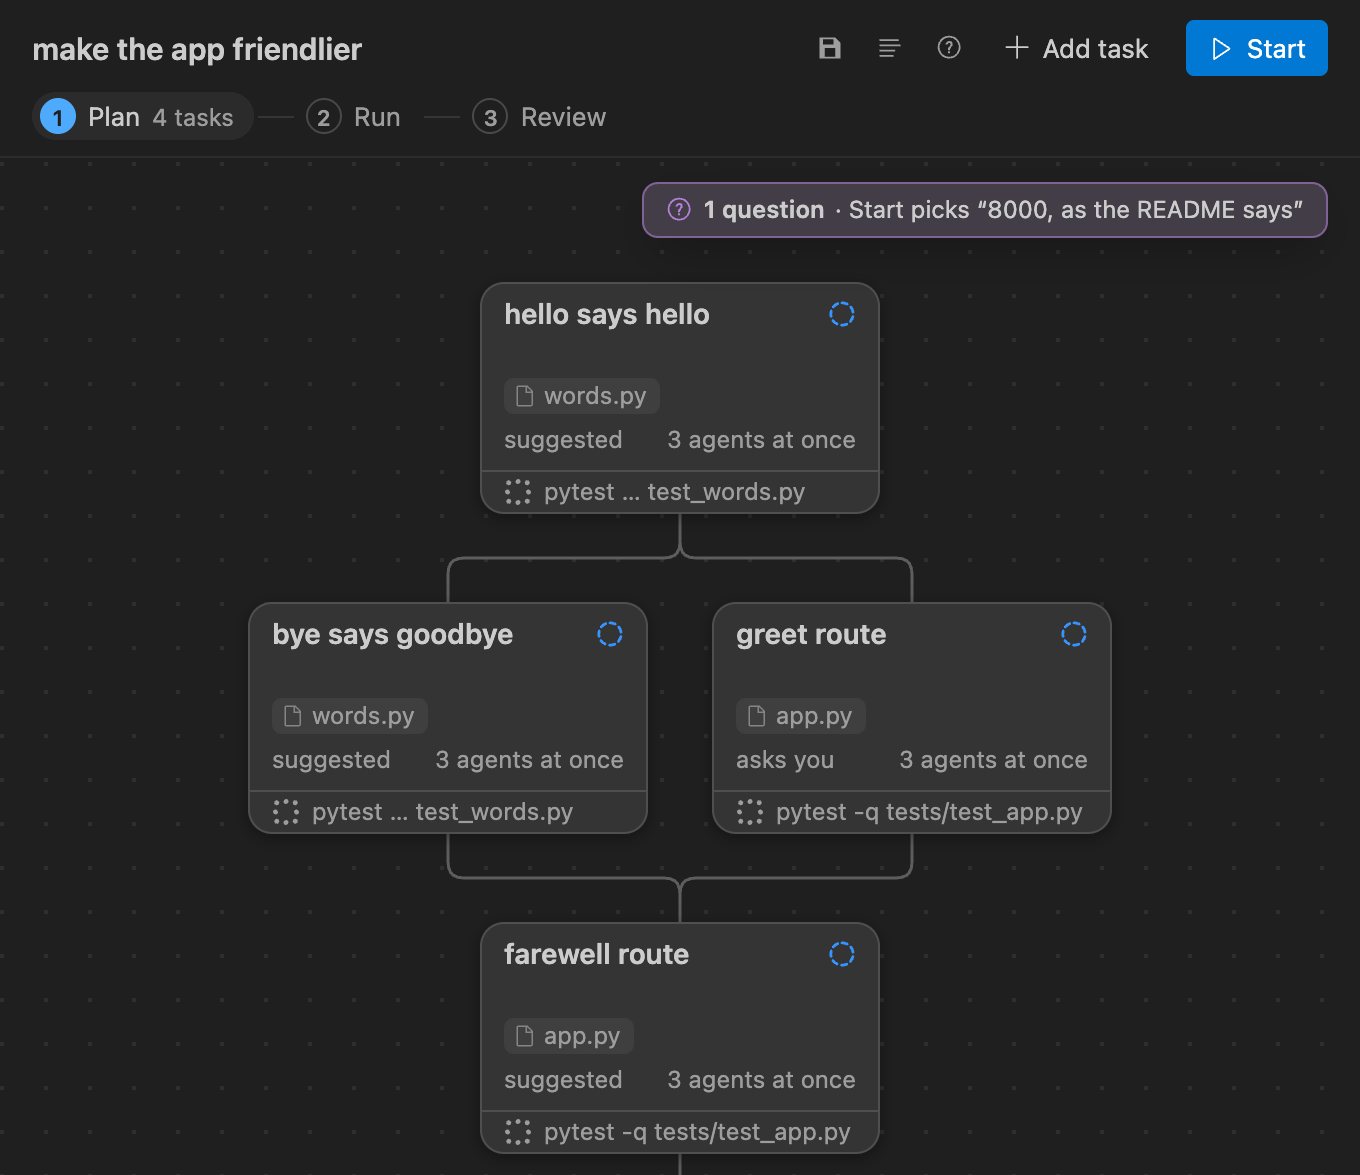
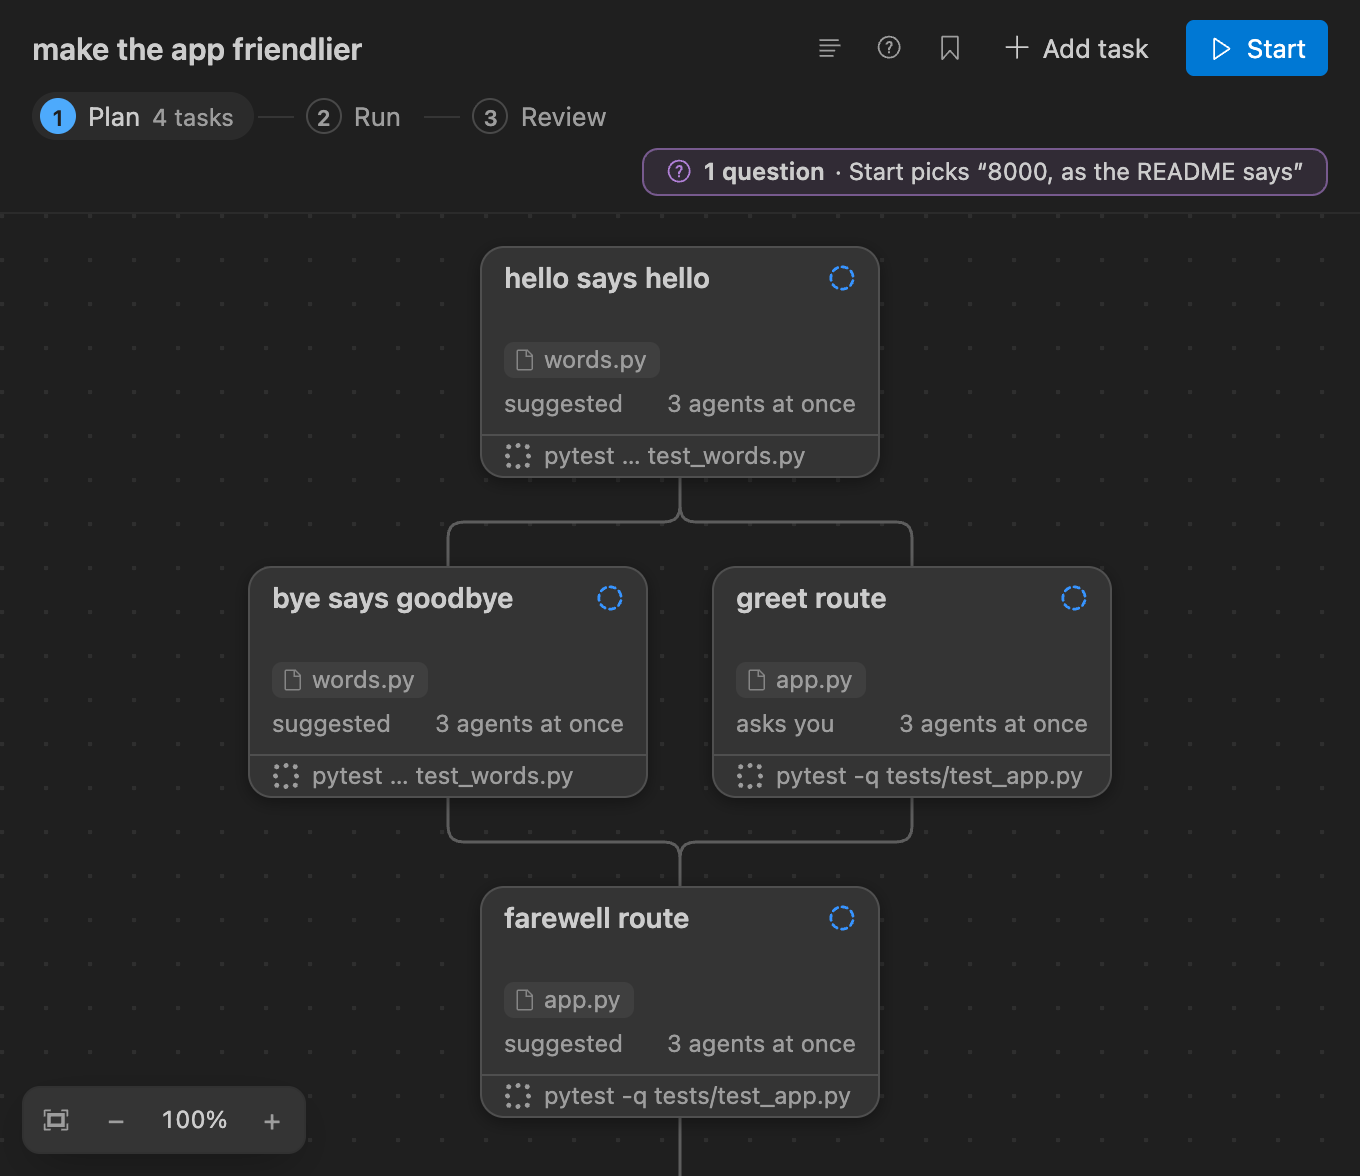
seams after the last round: a task sent back says so on its card, the empty graph offers Watch the demo, the README's picture retaken, the Home walk reads Home's own line
- seams: a task sent back says so on its card, the empty graph offers Watch the demo, the pane's act a button in a narrow tab
- pictures: the README's and the walkthrough's suggested plan retaken after the last round (a whole 'replay' pill, the bookmark for Save as workflow, the question's chip in the header)
- e2e: home reads Home's own said line, not the older-graphene banner that shares its class and comes first

diff --git a/editors/vscode/src/graph/words.ts b/editors/vscode/src/graph/words.ts
@@ -13,14 +13,14 @@ export type Replay = { shown: string; day: string; repository: string } | null;
 export type StateX = Omit<State, "tasks"> & { replay?: Replay; stand_in?: boolean; tasks: TaskX[] };
 
 export type Act = "add-after" | "add-under" | "link" | "unlink" | "drop" | "accept" | "tell" | "start" | "run" | "stop" | "cockpit"
-  | "openDiff" | "compareForks" | "pickFork" | "signOff" | "sendBack" | "answer" | "handBack" | "set" | "draw" | "saveWorkflow" | "markDone";
+  | "openDiff" | "compareForks" | "pickFork" | "signOff" | "sendBack" | "answer" | "handBack" | "set" | "draw" | "saveWorkflow" | "markDone" | "demo";
 
 /** The acts a replay offers none of: they change a plan, or they act outside the replay (the cockpit opens
  *  `graphene watch` in the person's own folder; openDiff and compareForks look the id up in the person's
  *  plan). That is every act: a replay is watched. The host refuses them too (check.ts). */
 export const CHANGES: readonly Act[] = ["add-after", "add-under", "link", "unlink", "drop", "accept", "tell", "start", "run", "stop",
                                         "cockpit", "openDiff", "compareForks", "pickFork", "signOff", "sendBack", "answer", "handBack", "set", "draw",
-                                        "saveWorkflow", "markDone"];
+                                        "saveWorkflow", "markDone", "demo"];
 
 /** The header's act buttons, by their element id: each one is hidden in a replay. Auto and the cockpit are
  *  Home's and the palette's (with graphene.advanced), not the graph's. */

diff --git a/editors/vscode/src/graph/check.ts b/editors/vscode/src/graph/check.ts
@@ -10,7 +10,7 @@ import { CHANGES } from "./words.ts";
 // title as the sentence
 export const ACTS = ["add-after", "add-under", "link", "unlink", "drop", "accept", "tell", "start", "run", "stop", "cockpit",
                      "openDiff", "compareForks", "pickFork", "signOff", "sendBack", "answer", "handBack", "set", "draw", "saveWorkflow",
-                     "markDone"] as const;
+                     "markDone", "demo"] as const;
 export type Act = (typeof ACTS)[number];
 export type Drawn = { key: string; title: string; files: string; check: string; approve: boolean; after: string | null; parent: string | null };
 export type FromPage = { type: "ready" }
@@ -64,7 +64,7 @@ export function check(m: unknown, session: { state: Plan }): FromPage | null {
   const s = session.state;
   const tasks = s?.tasks ?? [];
   const task = tasks.find((t) => t.id === id);
-  const global: readonly Act[] = ["start", "run", "stop", "cockpit", "saveWorkflow"];
+  const global: readonly Act[] = ["start", "run", "stop", "cockpit", "saveWorkflow", "demo"];
   if (act === "answer") {
     const q = s?.questions.find((x) => x.id === id);
     if (!q) return null;

diff --git a/editors/vscode/test/graph-check.test.ts b/editors/vscode/test/graph-check.test.ts
@@ -44,7 +44,7 @@ test("a fork the task has passes; so does an answer with one of the question's o
 test("a replay's host runs nothing that changes a plan or acts outside the replay; what reads still passes", () => {
   const replay = { state: { ...state, replay: { shown: "a scripted stand-in, no model ran", day: "", repository: "" } } };
   for (const act of CHANGES) {
-    const id = ["start", "run", "stop", "cockpit", "add-under", "draw", "saveWorkflow"].includes(act) ? "" : act === "answer" ? "which-port" : "farewell";
+    const id = ["start", "run", "stop", "cockpit", "add-under", "draw", "saveWorkflow", "demo"].includes(act) ? "" : act === "answer" ? "which-port" : "farewell";
     const more = act === "set" ? { field: "title", value: "x" } : act === "draw" ? { draft: { key: " d1", title: "t", files: "a.py", check: "true", approve: false } }
       : act.startsWith("add-") ? { sentence: "a flag", key: " d1" } : {};
     assert.ok(check({ type: "act", act, id, fork: act === "pickFork" ? "b" : undefined, target: act === "link" || act === "unlink" ? "hello" : undefined, ...more }, session),

diff --git a/editors/vscode/test/graph-marks.test.ts b/editors/vscode/test/graph-marks.test.ts
@@ -369,6 +369,9 @@ test("a card's status says its state first and what its other parts do not: a qu
                     covers({ title: "hello says hello", full: "hello says hello to the person by name" }),
                     covers({ title: "the export", full: "Write the export: CSV for the weekly report" })],
                    ["Collections, JSON import, ingredient search", "CSV for the weekly report", "", "", ""]);
+  // a task sent back with a note says so, not ready, as if no agent had touched it
+  assert.equal(cardLine(step("ready", { note: "the test only covers one case" }), 40), "sent back");
+  assert.notEqual(cardLine(step("ready"), 40), "sent back");
   const suggested = (title: string, full: string) => cardLine(step("proposed", { title, full, check: CHECK }), 60);
   assert.equal(suggested("Planner service", "Planner service: shopping list and Markdown export"), "suggested", "the row says one thing on every suggestion: what it covers is a line of its own");
   assert.equal(suggested("Planner service", "Planner service"), "suggested");

diff --git a/editors/vscode/src/graph/marks.ts b/editors/vscode/src/graph/marks.ts
@@ -309,6 +309,8 @@ export function coversIn(c: string, n: number): string {
 export function cardLine(t: TaskX, n: number, question = ""): string {
   if (question && (t.state === "proposed" || stateMark(t) === "you") && !["review", "yours"].includes(t.state)) return cutWhole(`${ASKS}: ${question}`, n);
   if (t.state === "proposed") return cutWhole(SAY.proposed, n);
+  // sent back with a note (the snapshot's `note`): it is not a task no agent has touched, so it does not say ready
+  if ((t.state === "ready" || t.state === "waiting") && t.note) return cutWhole("sent back", n);
   if (t.state !== "running") return sub(t, n);
   const parts = sub({ ...t, forks: [] }, 1000).split(" · "), agent = parts.find((p) => p.startsWith("agent ")) ?? "";
   return fitWords([SAY.running, agent, ...parts.filter((p) => p !== SAY.running && p !== agent)], n);

diff --git a/editors/vscode/src/graph/main.ts b/editors/vscode/src/graph/main.ts
@@ -357,6 +357,7 @@ function render() {
     if (!replaying()) $("notice").append(ASK_AGENT);
     if (!replaying() && document.body.dataset.editor === "cursor") div("notice-aside", CURSOR_AGENT, $("notice")); // the host says which editor (graph.ts)
     if (!replaying()) button({ label: "Add task", act: "add-under", title: "draw a task: its title, then its files and its check", icon: "add", main: true }, "", $("notice"));
+    if (!replaying()) button({ label: "Watch the demo", act: "demo", title: "a plan run by a scripted stand-in: no key, nothing spent", icon: "play", main: false }, "", $("notice"));
   }
   painting = true;
   try {

diff --git a/editors/vscode/media/graph.css b/editors/vscode/media/graph.css
@@ -184,6 +184,7 @@ footer#hint.sr { position: absolute; width: 1px; height: 1px; min-height: 0; pad
 /* a narrow tab (the editor area beside the side bar and an agent's chat): the header wraps as it does anywhere,
    and the details go under the canvas */
 @media (max-width: 700px) {
+  #details .d-acts button:not(.quiet) { flex: 0 1 320px; } /* the one filled act a button, not a bar the tab's width */
   main { flex-direction: column; }
   /* under the canvas the pane can be shorter than its head and its acts (a short tab, a panel open under it):
      the whole pane scrolls, so a mouse reaches every act */

diff --git a/editors/vscode/src/graph.ts b/editors/vscode/src/graph.ts
@@ -206,6 +206,7 @@ export class GraphHost {
       case "start": return this.startPlan();
       case "run": return run("runReady");
       case "stop": return run("stop");
+      case "demo": return run("watchDemo"); // the empty graph's Watch the demo, as Home's
       case "saveWorkflow": return run("saveWorkflow"); // the header's Save as workflow: Home's host asks its name and writes it
       case "markDone": return run("markDone", arg); // a step past the line: approving it runs its command
       case "cockpit": return run("openCockpit");

diff --git a/CHANGELOG.md b/CHANGELOG.md
@@ -27,7 +27,8 @@ The editor (23 November 2026, then PRs #68, #67 and #60). Each line is one chang
   rows, a mark and a title; choosing a card moves nothing (`test/zoom.test.ts`).
 - A card's foot is its check, with a box only Graphene ticks, crossed where the check failed; the one act a task
   needs from you is a button on its card (Open changes, Approve, Answer…, Help it…, Compare, Approve and run, Mark
-  done, Allow the write…), and a chip walks them (`3 tasks need you · show the next`, `n`).
+  done, Allow the write…), quiet but for those the run waits on, and left to the pane once the card is chosen; a
+  chip walks them (`3 tasks need you · show the next`, `n`); a task sent back says so.
 - The graph's tab opens by itself when work starts, without the keyboard: beside your file in VS Code, in front of
   it in Cursor, whose agent chat already narrows the editor; closed, it stays closed (`graphene.graph.openOnStart`;
   CI's `vscode-e2e`).

diff --git a/editors/vscode/CHANGELOG.md b/editors/vscode/CHANGELOG.md
@@ -50,7 +50,8 @@ The cards:
   round a card is the selection alone. Its status says what nothing else on it does: what a suggestion covers,
   the agent on a working task, `3 agents at once` for attempts not started.
 - The one act a task needs from you is a button on its card: Open changes, then Approve once they are open,
-  Answer…, Help it…, Compare, Approve and run, Mark done, Allow the write…. Drafts are grey dashes.
+  Answer…, Help it…, Compare, Approve and run, Mark done, Allow the write…; quiet but for those the run waits on,
+  and left to the pane once the card is chosen. A task sent back says so. Drafts are grey dashes.
 
 The pane, an inspector:
 
